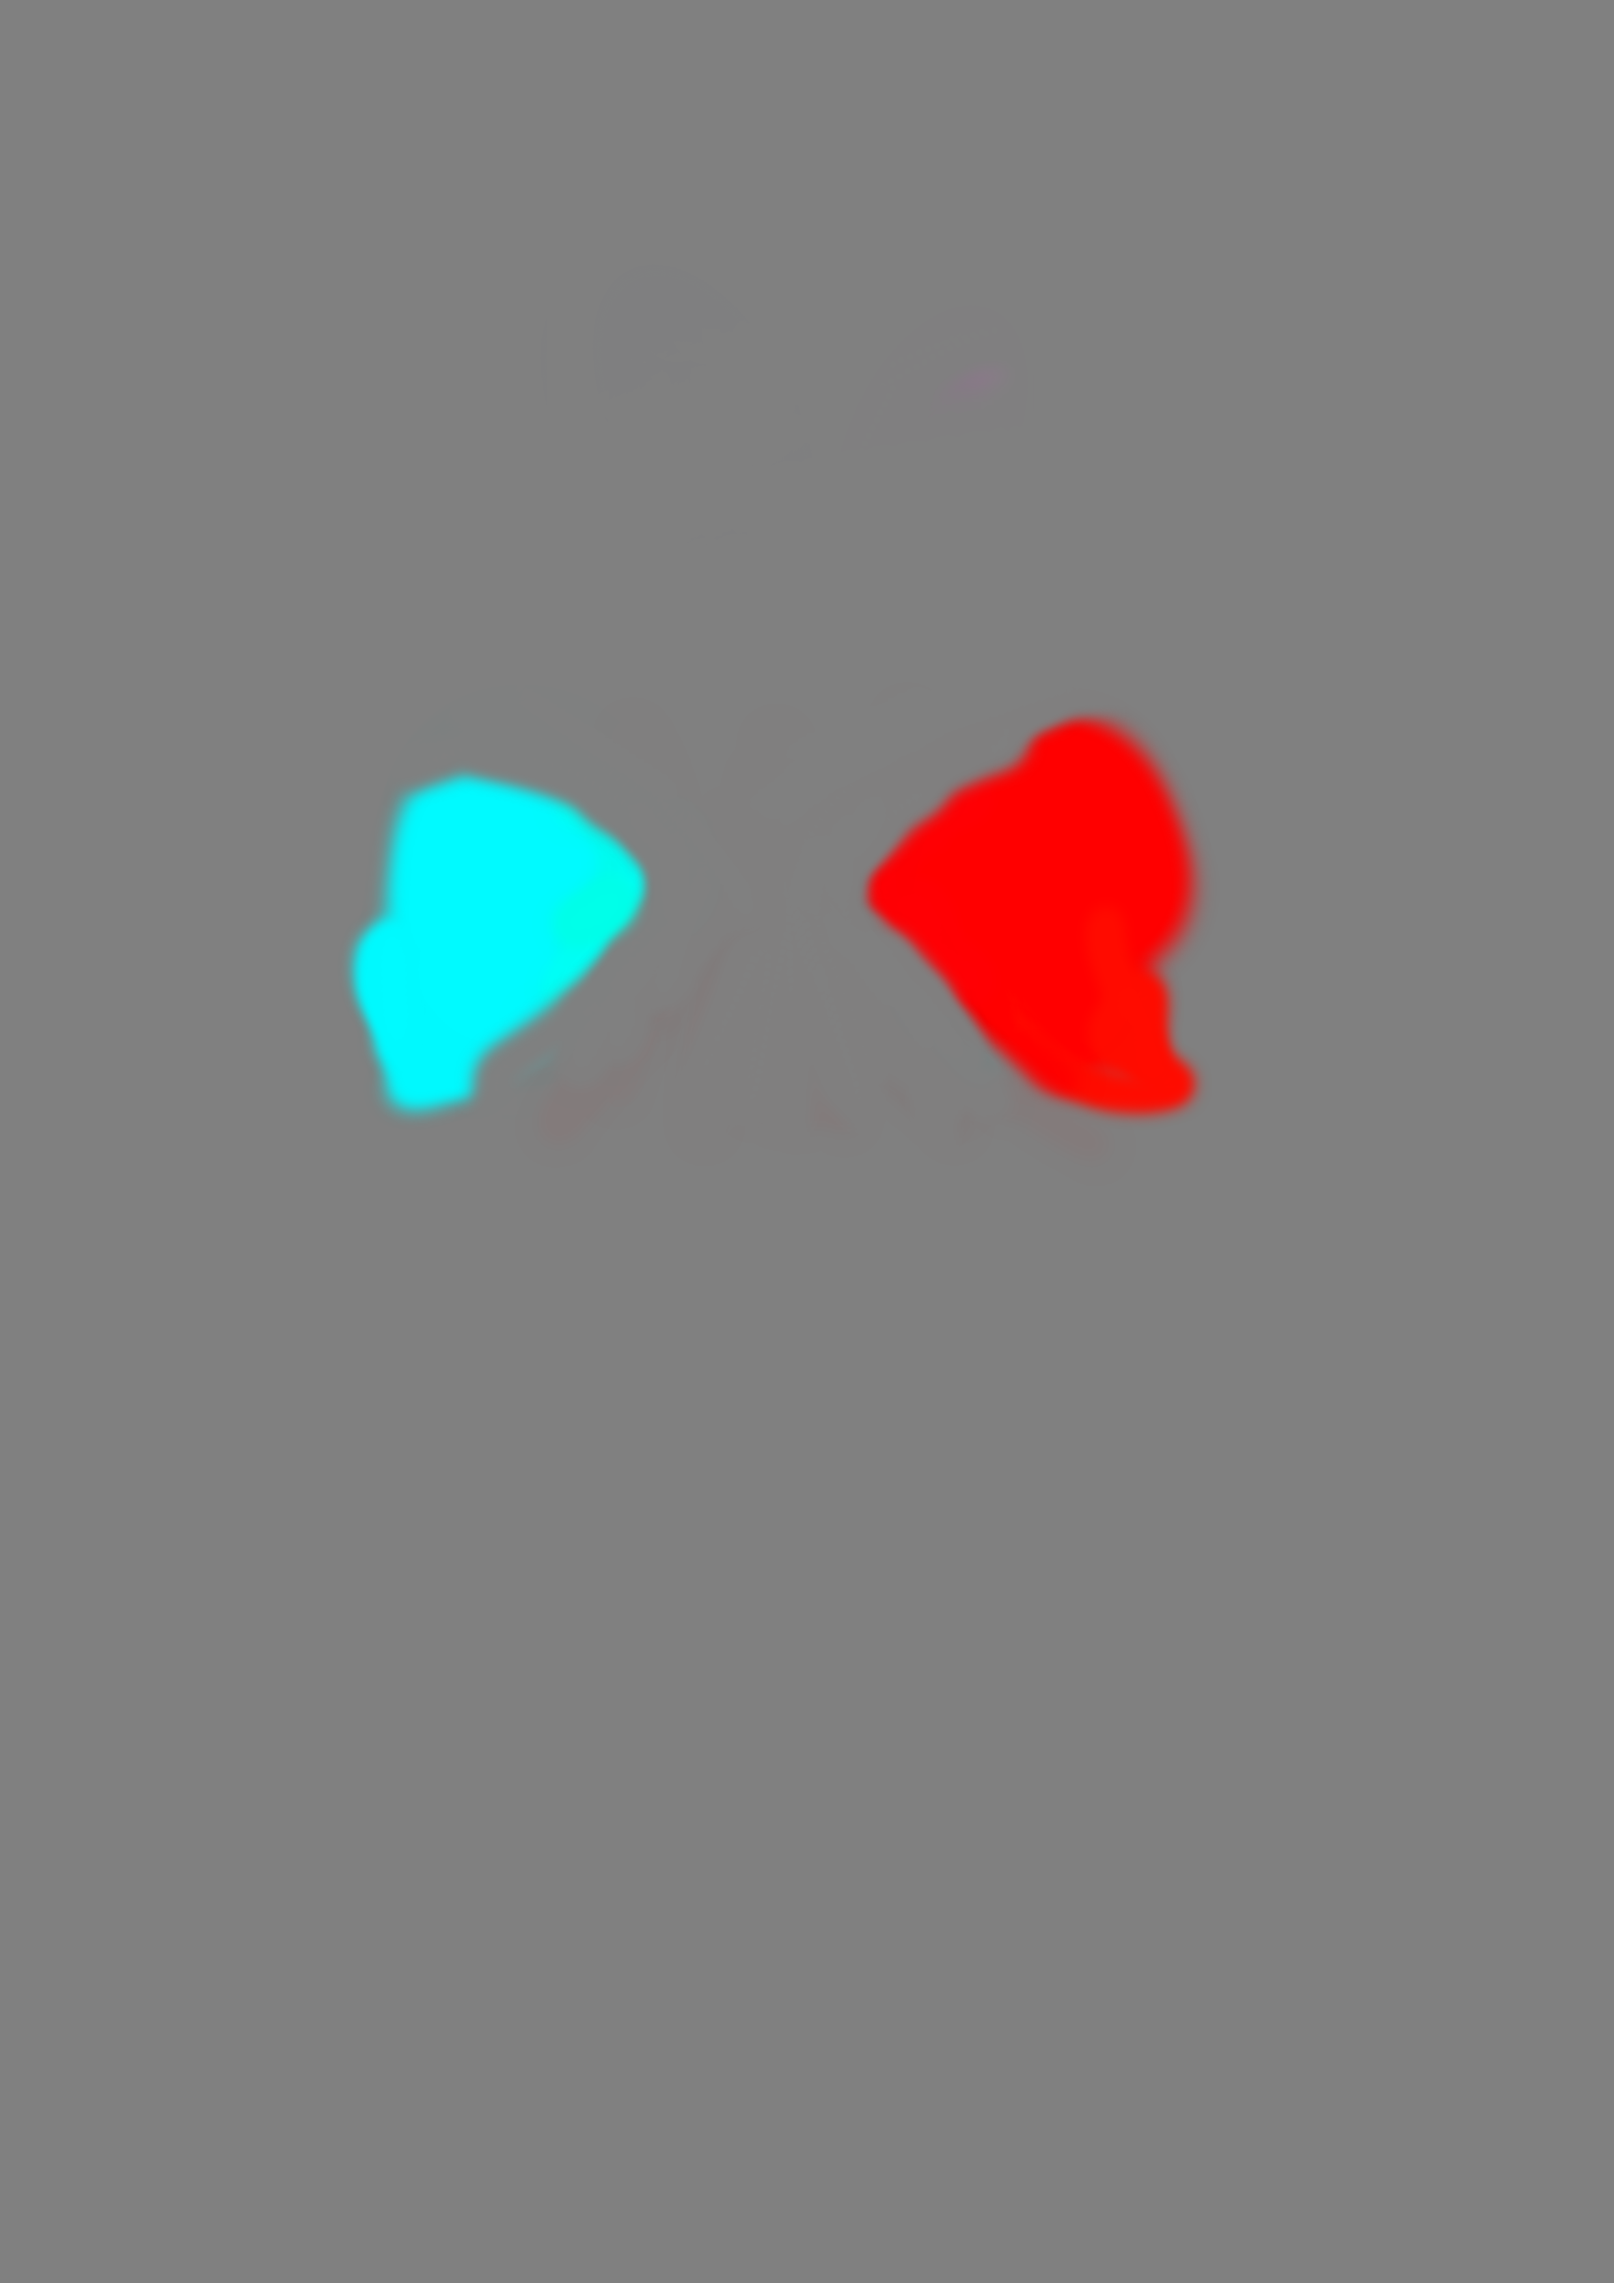
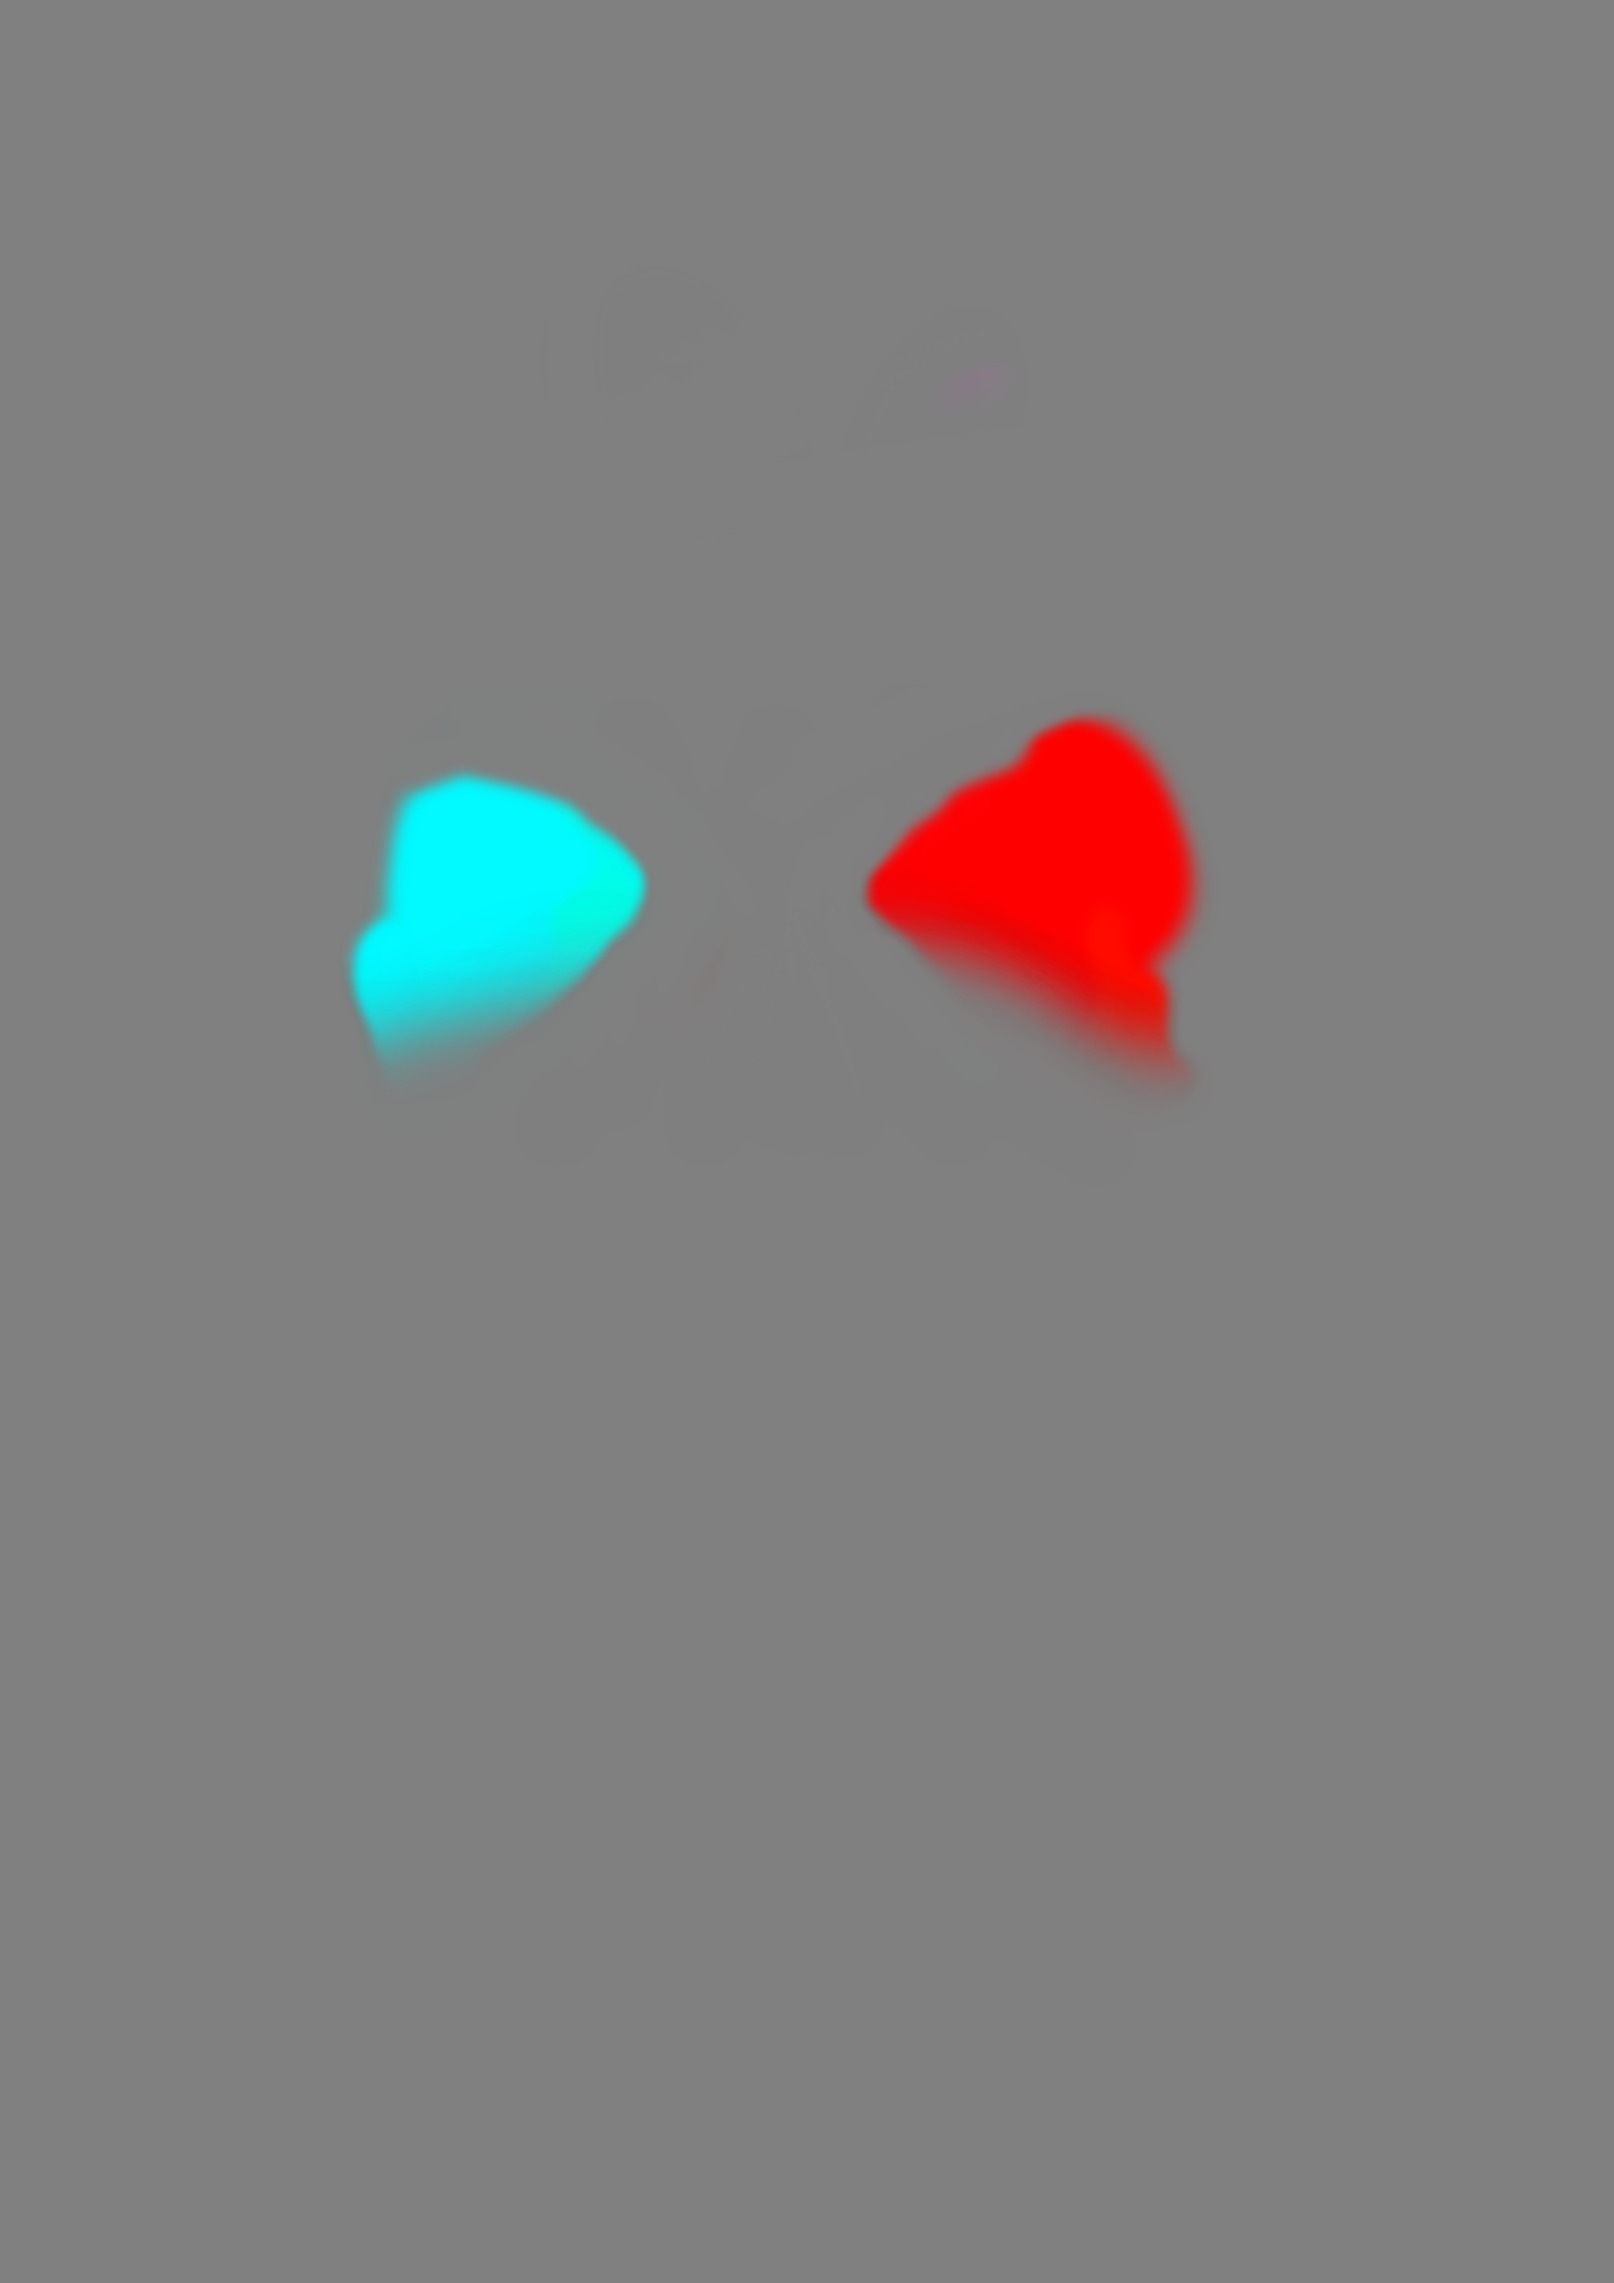
arm fix

Changed region(s): [[0.5589, 0.3729, 0.7452, 0.4971], [0.2173, 0.4039, 0.3726, 0.4971]]

diff --git a/Data/ModelList_MaidKnightHeavy.ts b/Data/ModelList_MaidKnightHeavy.ts
@@ -50,16 +50,23 @@ AddModel({
 	Categories: ["Sleeves"],
 	RemovePoses: ["EncaseTorsoUpper"],
 	Layers: ToLayerMap([
-		{ Name: "ArmLeft", Layer: "SleeveLeft", Pri: 60,
+		{ Name: "SleeveLeft", Layer: "SleeveLeft", Pri: 60,
 			Poses: ToMap([...ARMPOSES]),
 			InheritColor: "SleeveLeft",
 			GlobalDefaultOverride: ToMap(["Front", "Crossed"]),
 			HideWhenOverridden: true,
 			HidePrefixPose: ["Encase"],	HidePrefixPoseSuffix: ["ArmLeft"],
 		},
+		{ Name: "ArmLeft", Layer: "ArmLeft", Pri: 50,
+			Poses: ToMap([...ARMPOSES]),
+			InheritColor: "ArmLeft",
+			GlobalDefaultOverride: ToMap(["Front", "Crossed"]),
+			HideWhenOverridden: true,
+			HidePrefixPose: ["Encase"],	HidePrefixPoseSuffix: ["ArmLeft"],
+		},
 		{ Name: "ForeArmLeft", Layer: "ForeSleeveLeft", Pri: 60,
 			Poses: ToMap([...FOREARMPOSES]),
-			InheritColor: "SleeveLeft",
+			InheritColor: "ArmLeft",
 			GlobalDefaultOverride: ToMap(["Front", "Crossed"]),
 			SwapLayerPose: {Crossed: "CrossSleeveLeft"},
 			HideWhenOverridden: true,
@@ -77,7 +84,7 @@ AddModel({
 	Categories: ["Sleeves"],
 	RemovePoses: ["EncaseTorsoUpper"],
 	Layers: ToLayerMap([
-		{ Name: "ArmRight", Layer: "SleeveRight", Pri: 60,
+		{ Name: "SleeveRight", Layer: "SleeveRight", Pri: 60,
 			Poses: ToMap([...ARMPOSES]),
 			InheritColor: "SleeveRight",
 			GlobalDefaultOverride: ToMap(["Front", "Crossed"]),
@@ -89,9 +96,17 @@ AddModel({
 			EraseZBonus: 8600,
 			EraseInvariant: true,
 		},
+		{ Name: "ArmRight", Layer: "ArmRight", Pri: 60,
+			Poses: ToMap([...ARMPOSES]),
+			InheritColor: "ArmRight",
+			GlobalDefaultOverride: ToMap(["Front", "Crossed"]),
+			HideWhenOverridden: true,
+			HidePrefixPose: ["Encase"],	HidePrefixPoseSuffix: ["ArmRight"],
+
+		},
 		{ Name: "ForeArmRight", Layer: "ForeSleeveRight", Pri: 60,
 			Poses: ToMap([...FOREARMPOSES]),
-			InheritColor: "SleeveRight",
+			InheritColor: "ArmRight",
 			GlobalDefaultOverride: ToMap(["Front", "Crossed"]),
 			SwapLayerPose: {Crossed: "CrossSleeveRight"},
 			HideWhenOverridden: true,
@@ -210,7 +225,7 @@ AddModel({
 
 AddModel({
 	Name: "HeavyMaidKnight_Gauntlets",
-	Folder: "ArmorPlate",
+	Folder: "MaidKnightHeavy",
 	Parent: "HeavyMaidKnight",
 	TopLevel: true,
 	Categories: ["Gloves"],
@@ -545,6 +560,7 @@ AddModel({
 		...GetModelLayers("HeavyMaidKnight_ApronBottom"),
 		...GetModelLayers("HeavyMaidKnight_ApronTop"),
 		...GetModelLayers("HeavyMaidKnight_Pauldrons"),
+		...GetModelLayers("HeavyMaidKnight_Gauntlets"),
 		...GetModelLayers("HeavyMaidKnight_Waist"),
 		...GetModelLayers("HeavyMaidKnight_SideArmor"),
 		...GetModelLayers("HeavyMaidKnight_ChestArmor"),
